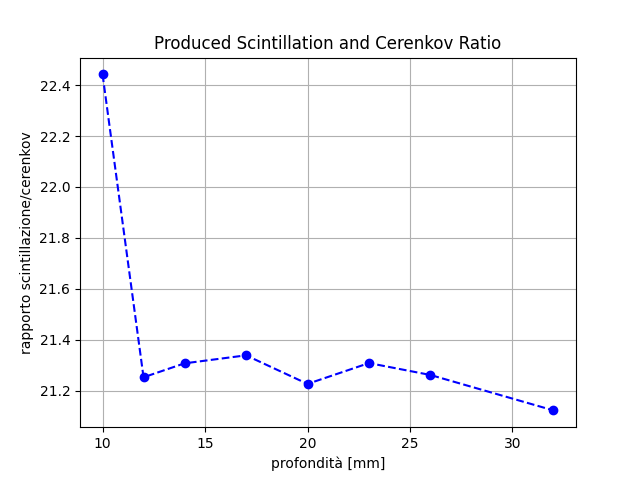
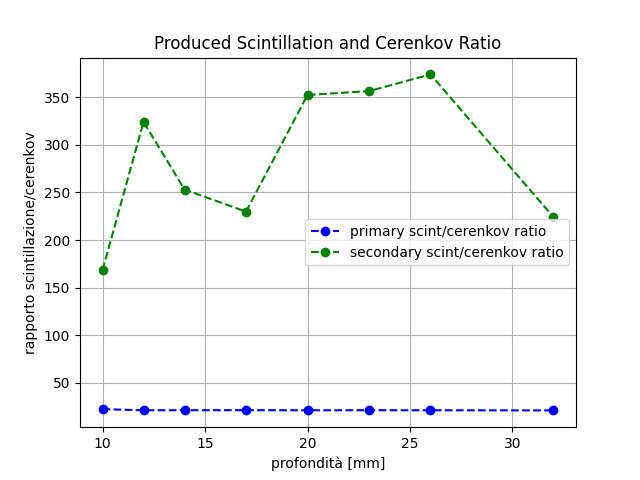
Fix cerenkov plot

diff --git a/Analysis/7MeV.py b/Analysis/7MeV.py
@@ -9,7 +9,12 @@ CURR_DIR = "./7MeV"
 
 event_directories=next(os.walk(CURR_DIR))[1]
 
-datapoints=[]
+datapoints_p=[]
+scintillations_p=[]
+cerenkovs_p=[]
+scintillations_s=[]
+cerenkovs_s=[]
+datapoints_s=[]
 depth=[]
 incident_electrons=[]
 fluxes=[]
@@ -23,8 +28,10 @@ for index,paths in enumerate(event_directories):
     path=paths
     optic_data=glob.glob(os.path.join(path,"Optic_*.csv"))
     assert(len(optic_data)!=0)
-    cerenkov=0
-    scintillation=0
+    cerenkov_p=0
+    cerenkov_s=0
+    scintillation_p=0
+    scintillation_s=0
     for f in optic_data:
         try:
             df=pd.read_csv(f,names=["column"])
@@ -34,21 +41,36 @@ for index,paths in enumerate(event_directories):
 
             
                
-                cerenk=str(item).split("\t")[2]
-                cerenk_num=int(cerenk.split(":")[1])
-                cerenkov+=cerenk_num		    
-                scint=str(item).split("\t")[1]
-                scint_num=int(scint.split(":")[1])
-                scintillation+=scint_num
-    #print("Scintillation: ",scintillation,"Cerenkov: ",cerenkov)        
+                cerenk_p=str(item).split("\t")[2]
+                cerenk_num_p=int(cerenk_p.split(":")[1])
+                cerenkov_p+=cerenk_num_p
+                cerenk_s=str(item).split("\t")[4]
+                cerenk_num_s=int(cerenk_s.split(":")[1])
+                cerenkov_s+=cerenk_num_s
+                scint_p=str(item).split("\t")[1]
+                scint_num_p=int(scint_p.split(":")[1])
+                scintillation_p+=scint_num_p
+                scint_s=str(item).split("\t")[3]
+                scint_num_s=int(scint_s.split(":")[1])
+                scintillation_s+=scint_num_s
+         
     #print(scintillation/cerenkov)
             
         except:
             pass 
-        if cerenkov!=0:
-            datapoints.append(scintillation/cerenkov)
+        if cerenkov_p!=0:
+            datapoints_p.append(scintillation_p/cerenkov_p)
         else:
-            datapoints.append(0)   
+            datapoints_p.append(0)
+        if cerenkov_s!=0:
+            datapoints_s.append(scintillation_s/cerenkov_s)
+        else:
+            datapoints_s.append(0)  
+        scintillations_p.append(scintillation_p/(scintillation_p +scintillation_s))
+        scintillations_s.append(scintillation_s/(scintillation_p +scintillation_s))
+        cerenkovs_p.append(cerenkov_p/(cerenkov_p +cerenkov_s))
+        cerenkovs_s.append(cerenkov_s/(cerenkov_p +cerenkov_s))
+    #print("Primary Scintillation: ",scintillation_p,"Primary Cerenkov: ",cerenkov_p,"Secondary Scintillation: ",scintillation_s,"Secondary Cerenkov: ",cerenkov_s)  
     electron_datas=glob.glob(os.path.join(path,"Kinetic_*.csv"))
     assert(len(electron_datas)!=0)
     number_e=0
@@ -59,12 +81,12 @@ for index,paths in enumerate(event_directories):
             assert(len(df["column"])!=0)
             for i,item in enumerate(df["column"]):
                 name=str(item).split("\t")[0]
-                print(name)
+
                 if name=="Incident Electron":
                     number_e+=1
                 elif name=="Incoming Energy":
                     energy=float(str(item).split("\t")[2])
-                    print(energy)
+
                     energies.append(energy)
                 else:
                     print("What is wrong with this file man?")
@@ -101,11 +123,33 @@ for index,paths in enumerate(event_directories):
 indexes=np.argsort(np.array(depth))
 
 
-plt.figure("Optic Events")
+plt.figure("Optic Events Primary")
 plt.title("Produced Scintillation and Cerenkov Ratio")
-plt.plot(np.array(depth)[indexes],np.array(datapoints)[indexes],marker='o',linestyle='dashed',color='blue',label='scint/cerenkov ratio')
+plt.plot(np.array(depth)[indexes],np.array(datapoints_p)[indexes],marker='o',linestyle='dashed',color='blue',label='primary scint/cerenkov ratio')
+plt.plot(np.array(depth)[indexes],np.array(datapoints_s)[indexes],marker='o',linestyle='dashed',color='green',label='secondary scint/cerenkov ratio')
 plt.xlabel("profondità [mm]")
 plt.ylabel("rapporto scintillazione/cerenkov")
+plt.legend()
+plt.grid()
+plt.show()
+
+plt.figure("Total scintillation")
+plt.title("Scintillations over total scintillation")
+plt.plot(np.array(depth)[indexes],np.array(scintillations_p)[indexes],marker='o',linestyle='dashed',color='blue',label='primary scintillation over total')
+plt.plot(np.array(depth)[indexes],np.array(scintillations_s)[indexes],marker='o',linestyle='dashed',color='green',label='secondary scintillation over total')
+plt.xlabel("profondità [mm]")
+plt.ylabel("numero di scintillazioni")
+plt.legend()
+plt.grid()
+plt.show()
+
+plt.figure("Total cerenkov")
+plt.title("Cerenkov over total cerenkov")
+plt.plot(np.array(depth)[indexes],np.array(cerenkovs_p)[indexes],marker='o',linestyle='dashed',color='blue',label='primary cerenkov over total')
+plt.plot(np.array(depth)[indexes],np.array(cerenkovs_s)[indexes],marker='o',linestyle='dashed',color='green',label='secondary cerenkov over total')
+plt.xlabel("profondità [mm]")
+plt.ylabel("numero di cerenkov")
+plt.legend()
 plt.grid()
 plt.show()
 

diff --git a/Flash_ex_novo/src/FlashDetectorConstruction.cc b/Flash_ex_novo/src/FlashDetectorConstruction.cc
@@ -481,7 +481,7 @@ phantomMaterial->GetIonisation()->SetBirksConstant(0.126 * mm / MeV);*/
   phantomMaterial->SetMaterialPropertiesTable(myMPT1);
   
 
-  G4double phantomSizeX = 5 * mm, phantomSizeY = 30.0 * cm,
+  G4double phantomSizeX = 15 * mm, phantomSizeY = 30.0 * cm,
            phantomSizeZ = 30.0 * cm;
   //G4ThreeVector phantomPosition = G4ThreeVector(-(199.4 * mm - phantomSizeX/2) , 0. * mm, 0. * mm);
     G4ThreeVector phantomPosition = G4ThreeVector(-(-0.9 * mm - phantomSizeX/2) , 0. * mm, 0. * mm);
